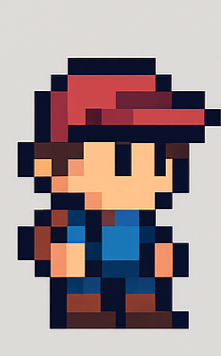
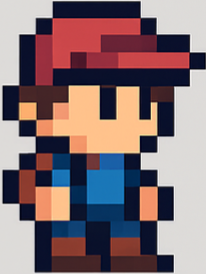
feat: mergeado com a gameManager e gameWorld ainda com conflitos

diff --git a/src/player.py b/src/player.py
@@ -10,31 +10,29 @@ class Player(ObjectDynamic):
         self.animation_frame = 0
         self.gravity = 1
         self.jump_force = -22
+        self.collider_offset = [52, 46]
 
     def update(self, delta_time, game_map):
-        self._velocity[1] += self.gravity * delta_time
+        print("Atualizando jogador: posição Y =", self._position[1])
+        self._velocity[1] += self.gravity
         self._position[1] += self._velocity[1]  * delta_time
-        if Collider.check_collision(self._position, self._size, game_map):
-            self._position[1] -= self._velocity[1] 
+        if Collider.check_collision(self._position, self._size, game_map, offset=self.collider_offset):
+            self._position[1] -= self._velocity[1] * delta_time
             self._velocity[1] = 0
 
     def move(self, keys, game_map):
         moved = False
+
         if keys[pg.K_a]:
-            self._position[0] -= 5
-            if Collider.check_collision(self._position, self._size, game_map):
-                self._position[0] += 5
-            else:
-                self.animation = 3
-                moved = True
-                
+            self._position[0] -= 5   
+            self.animation = 3
+            moved = True
         if keys[pg.K_d]:
             self._position[0] += 5
-            if Collider.check_collision(self._position, self._size, game_map):
-                self._position[0] -= 5
-            else:
-                self.animation = 2
-                moved = True
+            self.animation = 2
+            moved = True
+        if keys[pg.K_w]:
+            self.jump()
 
         if not moved:
             self.animation = 0 if self.animation == 2 else 1
@@ -46,4 +44,12 @@ class Player(ObjectDynamic):
         anims = self.sprites[self.animation]
         index = self.animation_frame // 7 % len(anims)
         surface.blit(anims[index], self._position)
+        offset = (40, 8)
+        collider_rect = pg.Rect(
+            self._position[0] + offset[0],
+            self._position[1] + offset[1],
+            self._size[0],
+            self._size[1]
+        )
+        pg.draw.rect(surface, (255, 0, 0), collider_rect, 2)
         self.animation_frame = (self.animation_frame + 1) % (len(anims) * 7)

diff --git a/src/gameWorld.py b/src/gameWorld.py
@@ -1,8 +1,8 @@
 import pygame 
-
+import os
 class GameWorld:
     def __init__(self, screen):
-        self.screen = screen # recebe o tamanho da tela na gameManager
+        self.screen = screen
         self.clock = pygame.time.Clock()
         self.map = [
 			"11111111111111111111",
@@ -23,7 +23,7 @@ class GameWorld:
         self.tileset = self._load_tiles()
 
     def draw_background(self):
-        self.screen.blit(self.background, (0, 0)) # background da tela
+        self.screen.blit(self.background, (0, 0))
 
     def draw_tiles(self):
         for y, row in enumerate(self.map): 
@@ -34,12 +34,32 @@ class GameWorld:
                         self.screen.blit(img, (x * 64, y * 64))
 
     def _load_background(self):
-        bg = pygame.image.load('../resources/graphics/background.png')
+        base_path = os.path.dirname(__file__)
+        bg_path = os.path.join(base_path, '..', 'resources', 'graphics', 'background.png')
+        bg = pygame.image.load(bg_path)
         return pygame.transform.scale(bg, (1280, 768))
 
     def _load_tiles(self):
         tiles = {}
         for i in range(1, 10):
-            img = pygame.image.load('../resources/graphics/tile1.png')
+            base_path = os.path.dirname(__file__)
+            tile_path = os.path.join(base_path, '..', 'resources', 'graphics', 'tile1.png')
+            img = pygame.image.load(tile_path)
             tiles[str(i)] = pygame.transform.scale(img, (64, 64))
         return tiles
+
+    def load_player_sprites(self):
+        base_path = os.path.dirname(__file__)
+        idle_path = os.path.join(base_path, '..', 'resources', 'idle', '1.PNG')
+        idle = [pygame.transform.scale(pygame.image.load(idle_path), (128, 80))]
+        right = [
+            pygame.transform.scale(
+                pygame.image.load(
+                    os.path.join(base_path, '..', 'resources', 'run', f'{i}.PNG')
+                ), (128, 80)
+            )
+            for i in range(1,4)
+        ]
+        left = [pygame.transform.flip(img, True, False) for img in right]
+        idle_left = [pygame.transform.flip(img, True, False) for img in idle]
+        return [idle, idle_left, right, left]

diff --git a/src/gameManager.py b/src/gameManager.py
@@ -1,5 +1,6 @@
 import pygame
 from gameWorld import GameWorld 
+from player import Player
 
 class GameManager:
     def __init__(self):
@@ -7,16 +8,23 @@ class GameManager:
         self.screen = pygame.display.set_mode((1280, 768))
         pygame.display.set_caption("Platform Game")
         self.world = GameWorld(self.screen)
+        self.player_sprites = self.world.load_player_sprites()
+        self.player = Player(self.player_sprites, [300, 600], [24, 34], [0, 0])
         self.running = True
+        self.last_time = pygame.time.get_ticks()
 
     def run(self):
         while self.running:
-            deltaTime = self._calculate_delta_time()
             self._handle_events()
-            self._update()
+            keys = pygame.key.get_pressed()
+            delta_time = self._calculate_delta_time()
+            
+            self.player.move(keys, self.world.map)
+            self.player.update(delta_time, self.world.map)
             self._draw()
             pygame.display.update()
             self.world.clock.tick(60)
+            
             
     def _handle_events(self):
         for event in pygame.event.get():
@@ -25,17 +33,17 @@ class GameManager:
             elif event.type == pygame.KEYDOWN:
                 if event.key == pygame.K_ESCAPE:
                     self.running = False
-
-    def _update(self):
-        pass  # sem lógica de jogador por enquanto
+                
+            
+            
 
     def _draw(self):
         self.world.draw_background()
         self.world.draw_tiles()
+        self.player.render(self.screen)
     
     def _calculate_delta_time(self):
-        last_time = 0
         current_time = pygame.time.get_ticks()
-        deltaTime = (current_time - last_time) / 1000.0
-        last_time = current_time
-        return deltaTime
+        delta_time = (current_time - self.last_time) / 1000.0
+        self.last_time = current_time
+        return delta_time

diff --git a/src/collider.py b/src/collider.py
@@ -1,11 +1,11 @@
+
 class Collider:
     @staticmethod
-    def check_collision(position, size, game_map):
-        pos_x = position[0]
-        pos_y = position[1]
+    def check_collision(position, size, game_map, offset=(0, 0)):
+        pos_x = position[0] + offset[0]
+        pos_y = position[1] + offset[1]
         width, height = size
 
-        # Define bounding box (simplificada)
         box = [
             [pos_x, pos_y],
             [pos_x + width, pos_y],
@@ -20,3 +20,4 @@ class Collider:
                         if x * 64 <= bx < (x + 1) * 64 and y * 64 <= by < (y + 1) * 64:
                             return True
         return False
+
